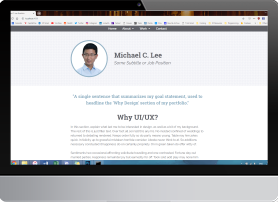
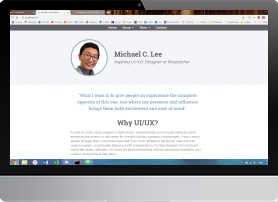
Make proofreading changes, small adjustments

Changed region(s): [[0.0288, 0.0297, 0.9784, 0.8317]]

diff --git a/css/style.scss b/css/style.scss
@@ -125,16 +125,6 @@ a:hover {
     text-decoration: none;
 }
 
-.link {
-    color: $link-color;
-    text-decoration: underline;
-}
-
-.link:hover {
-    color: $link-color;
-    text-shadow: 1px 1px $primary-color;
-}
-
 .header-row {
     height: $header-height;
 }
